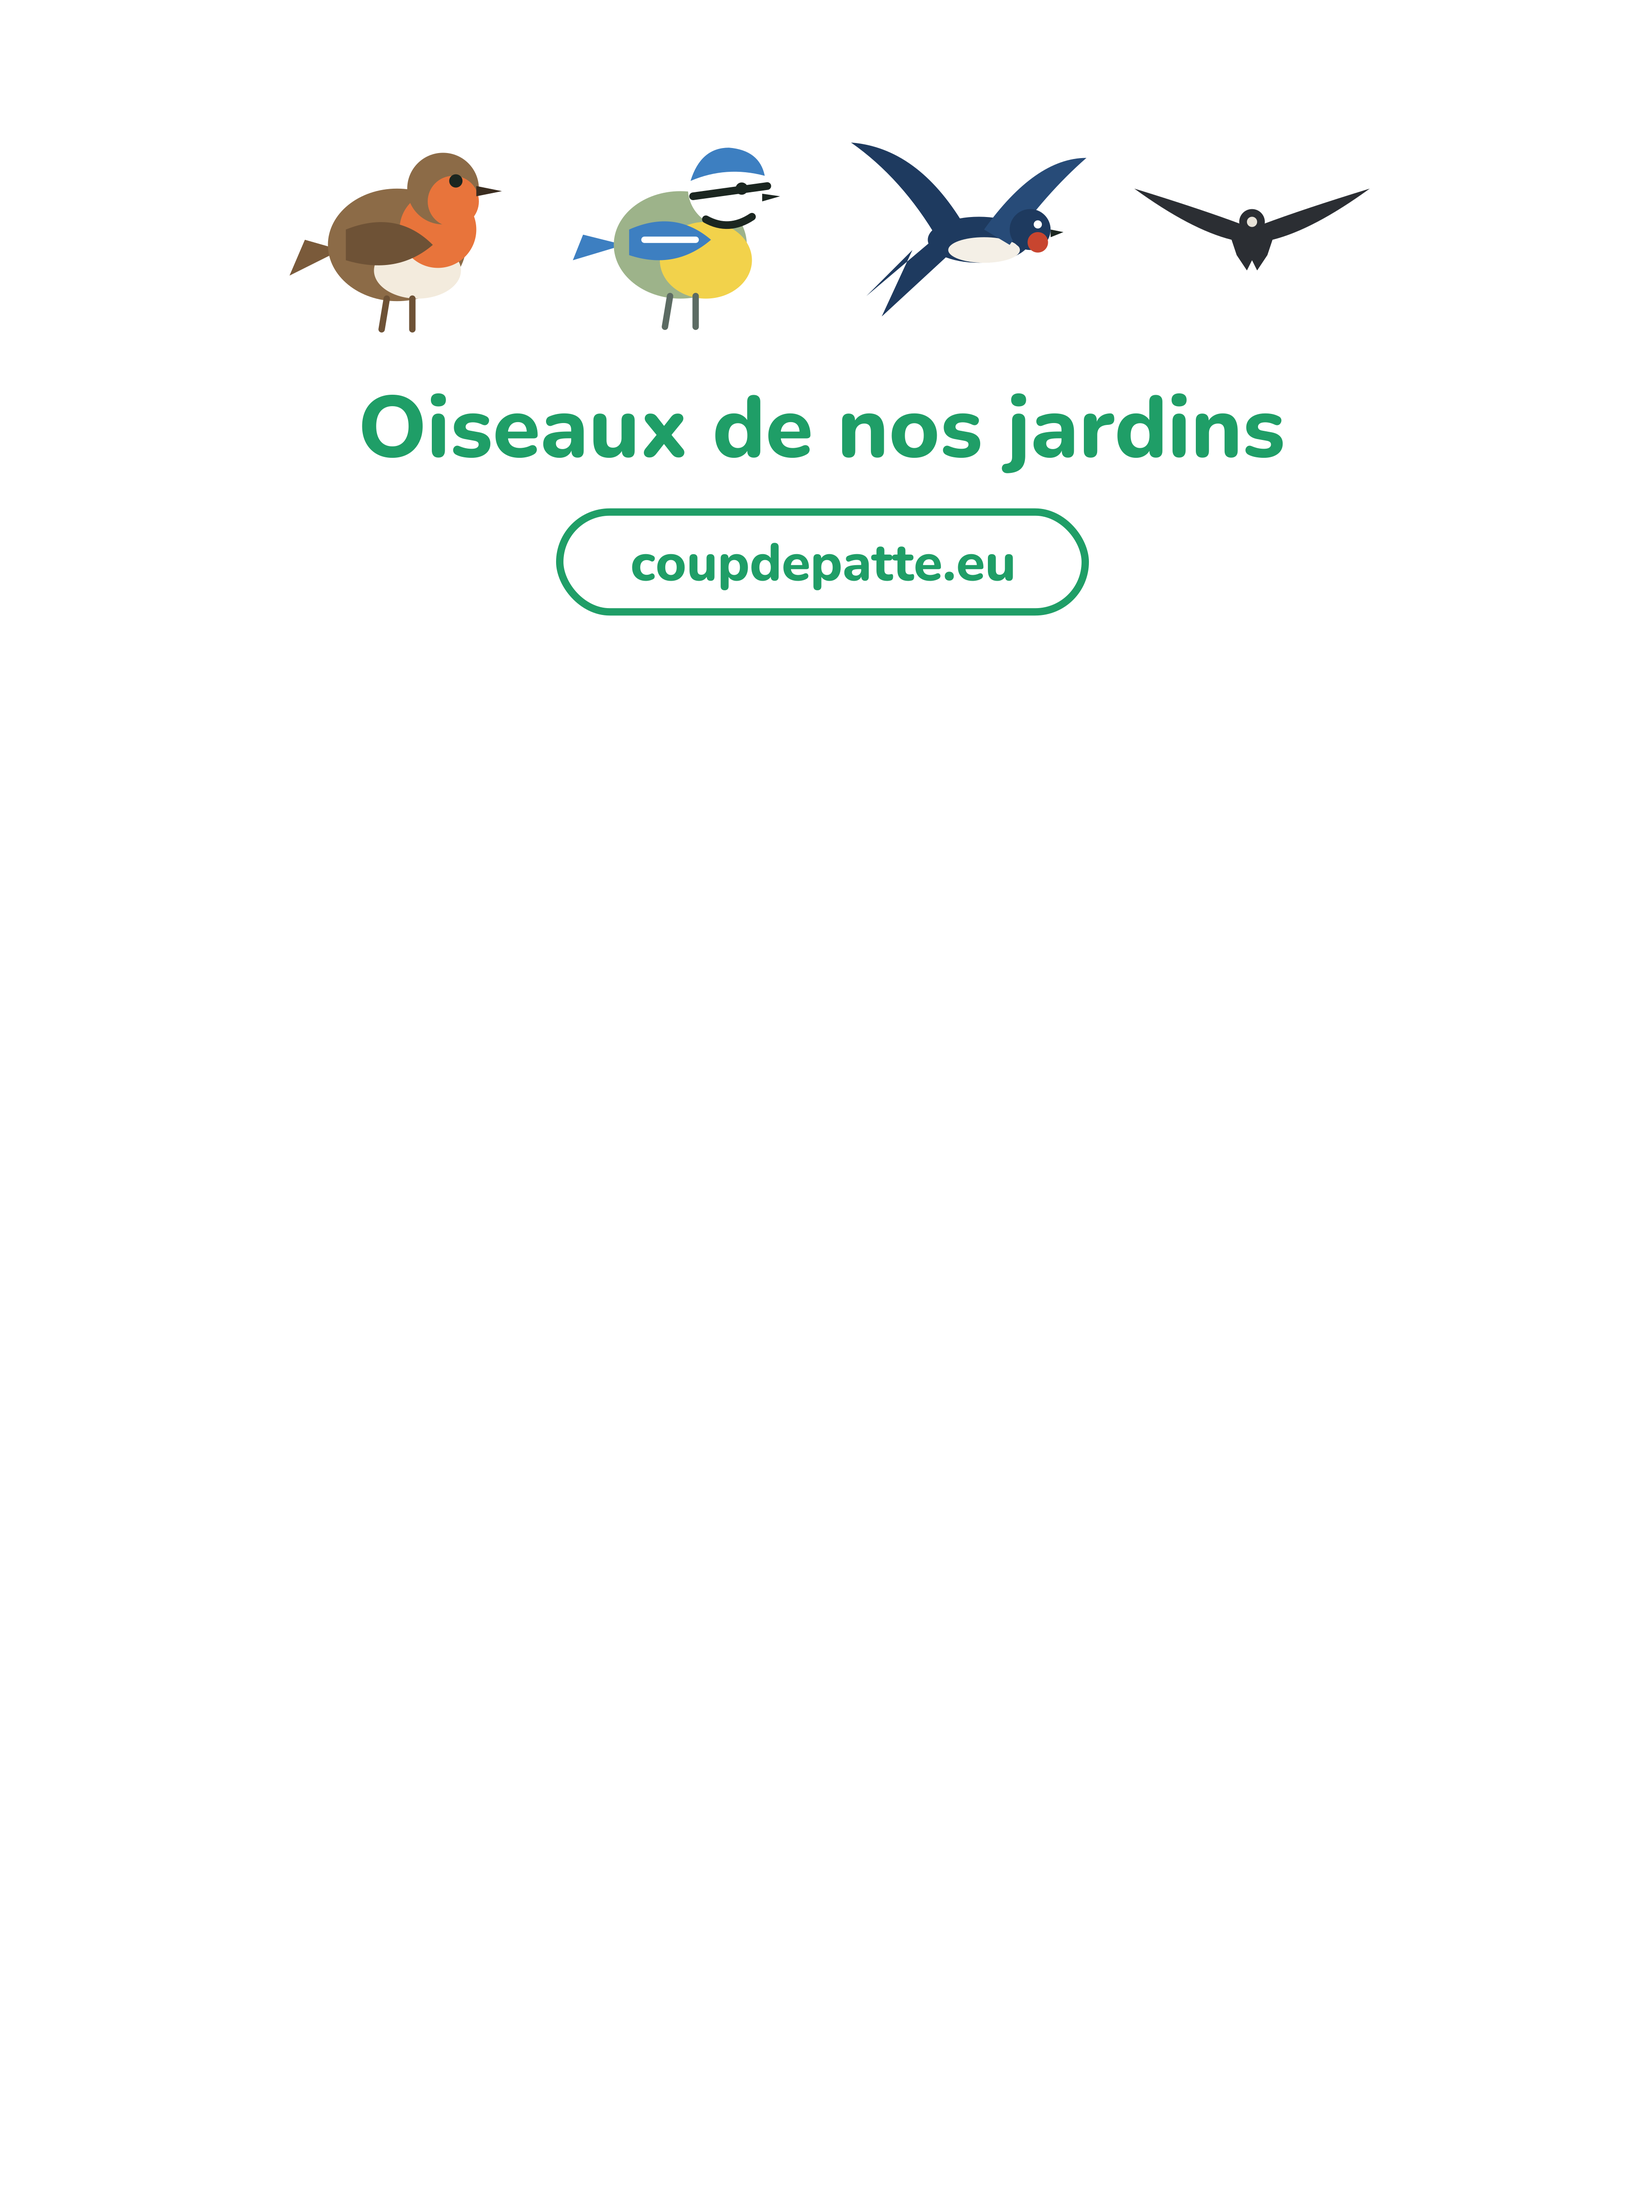
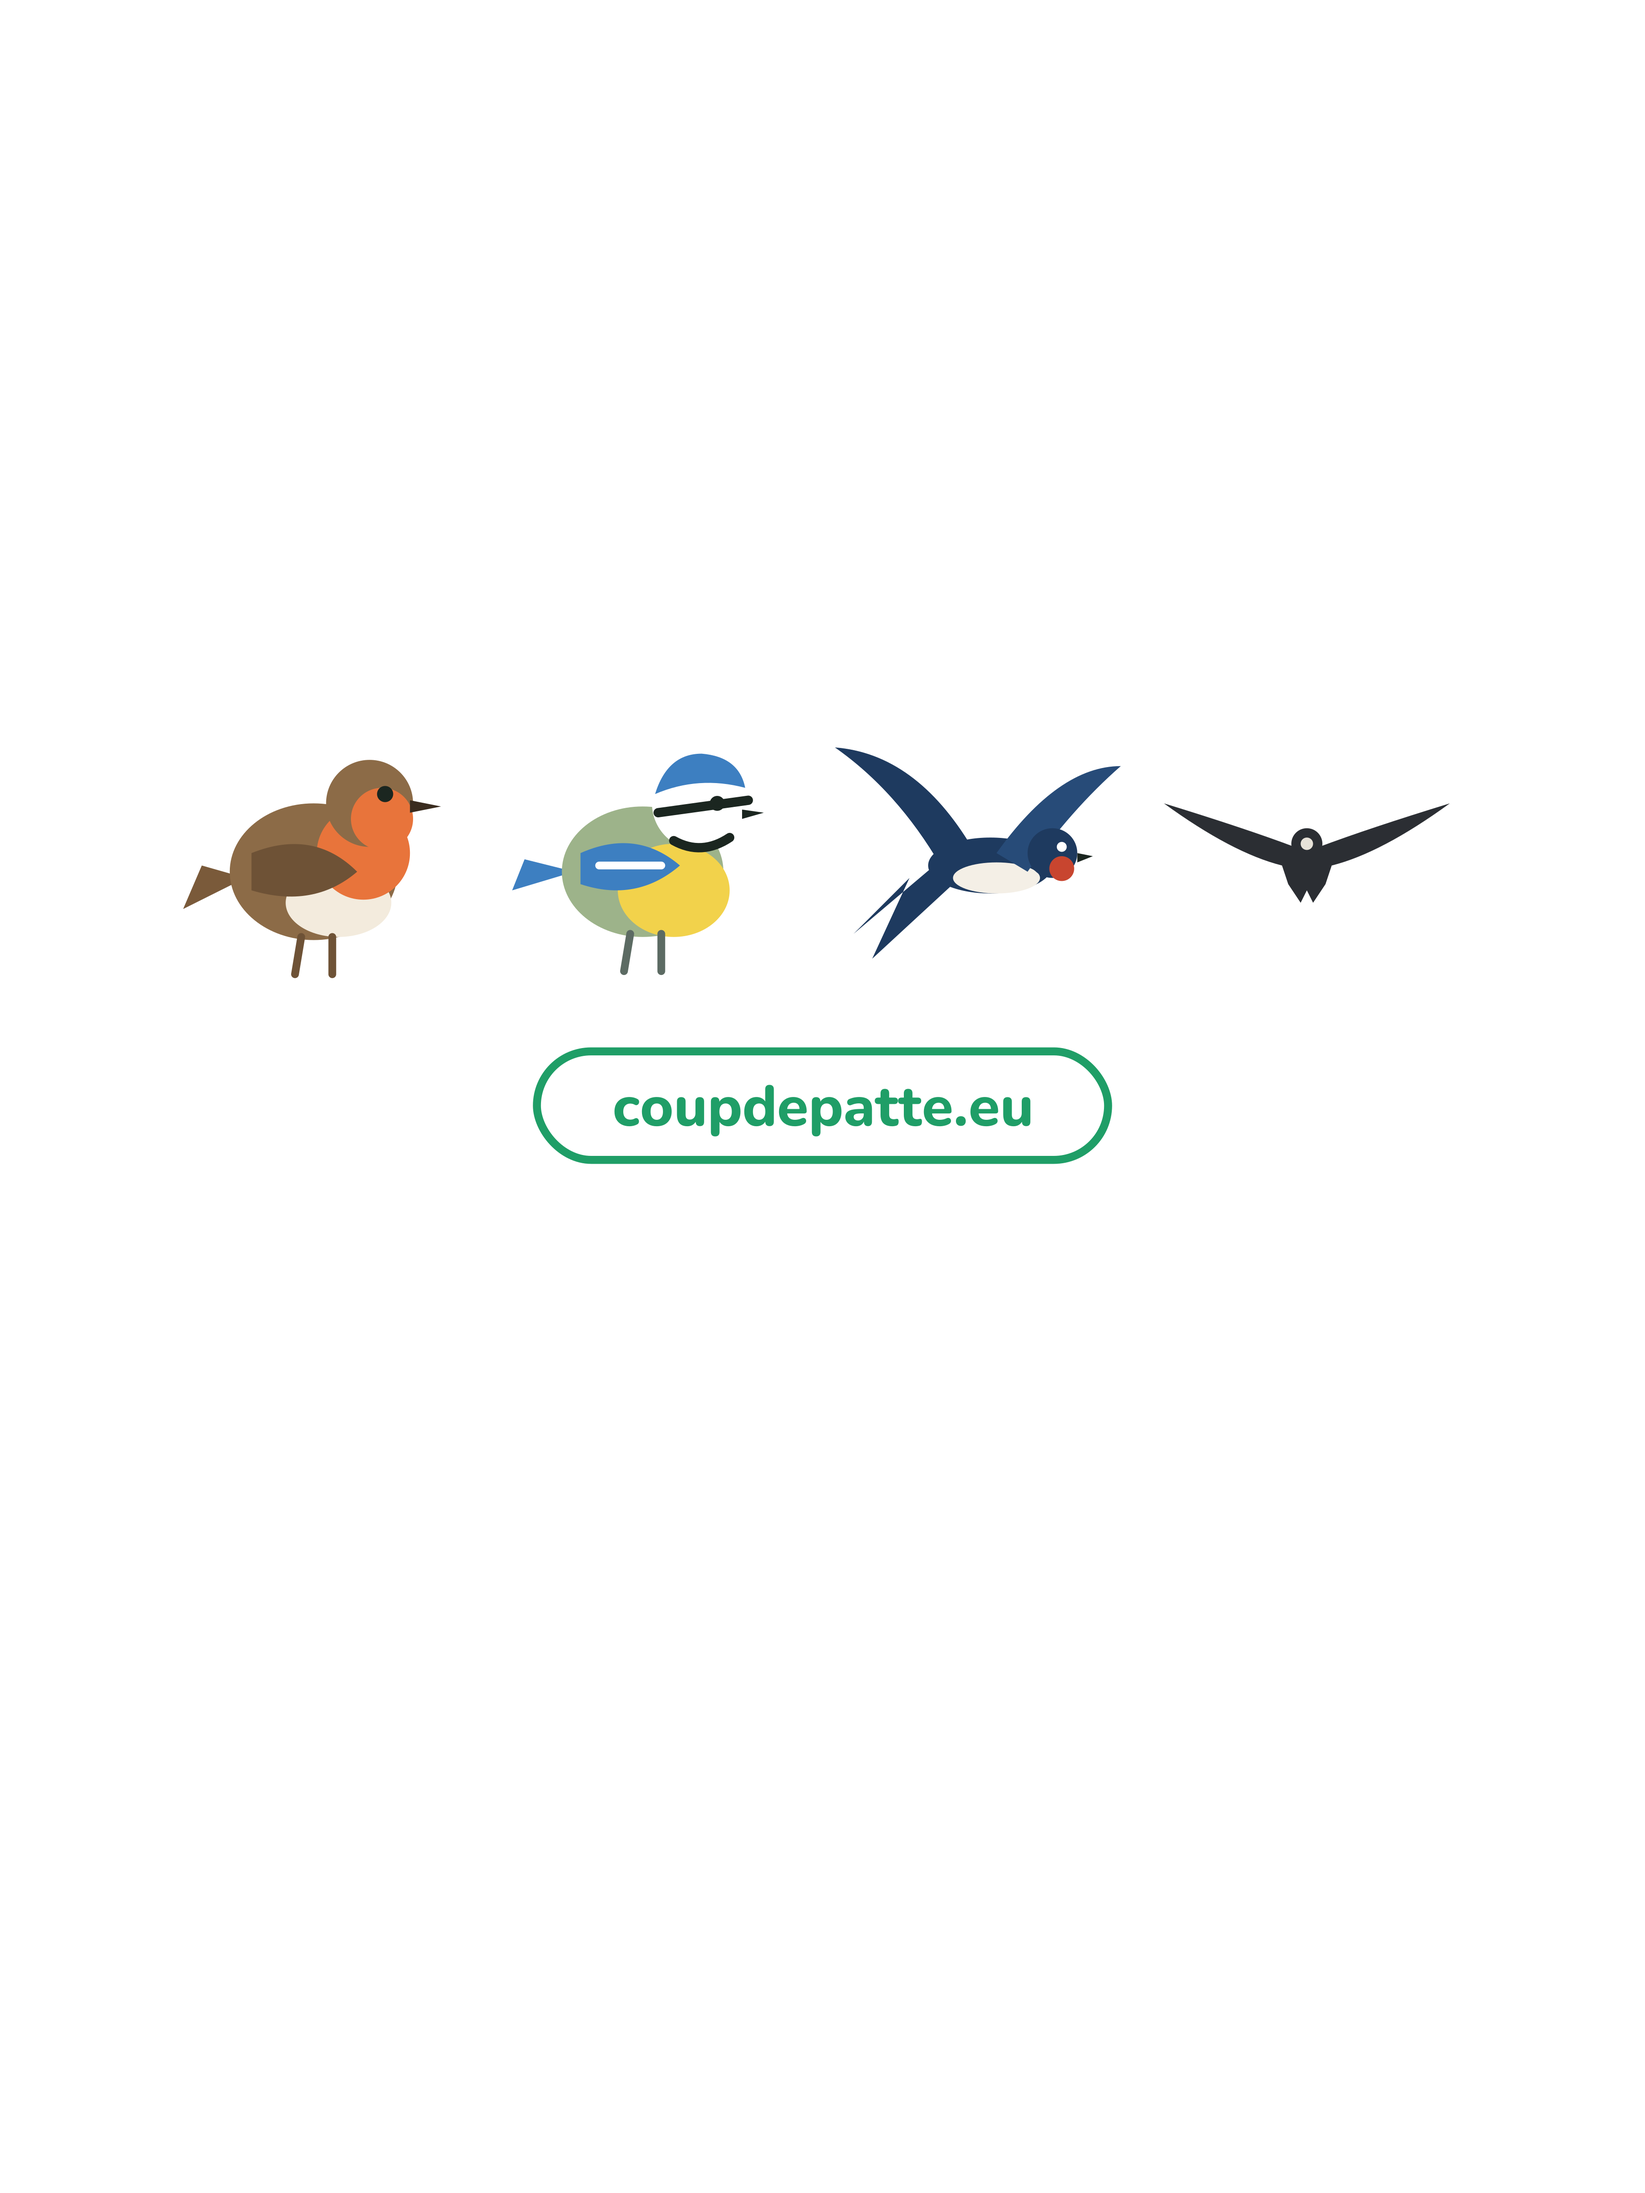
Boutique : sweat avec les quatre oiseaux et la cartouche seule, centrés sur le torse
Claude-Session: https://claude.ai/code/session_01SrhVcf1YKpy74WjD8FZC1m

diff --git a/index.html b/index.html
@@ -1408,7 +1408,7 @@
   var BOUTIQUE_URL = 'https://boutique.coupdepatte.eu/';
   var BOUTIQUE_DEFAUT = [
     {id:'tshirt-plume', nom:'T-shirt La plume', motif:'La plume', description:'La plume blanche, petite et haut sur la poitrine, sur coton vert. Coupe unisexe.', image:'/boutique/apercus/tshirt.jpg', tailles:['S','M','L','XL','XXL'], prix_cts:null, ordre:1},
-    {id:'sweat-oiseaux', nom:'Sweat Oiseaux de nos jardins', motif:'Oiseaux de nos jardins', description:'Rouge-gorge, mésange, hirondelle et martinet sur molleton écru.', image:'/boutique/apercus/sweat.jpg', tailles:['S','M','L','XL','XXL'], prix_cts:null, ordre:2},
+    {id:'sweat-oiseaux', nom:'Sweat Oiseaux de nos jardins', motif:'Oiseaux de nos jardins', description:'Rouge-gorge, mésange, hirondelle et martinet, centrés sur le torse. Molleton écru.', image:'/boutique/apercus/sweat.jpg', tailles:['S','M','L','XL','XXL'], prix_cts:null, ordre:2},
     {id:'tote-ilovebirds', nom:'Tote bag I love birds', motif:'I love birds', description:'Coton naturel, pour les courses, les marchés et les sorties nature.', image:'/boutique/apercus/tote.jpg', tailles:[], prix_cts:null, ordre:3},
     {id:'mug-plume', nom:'Mug La plume', motif:'La plume', description:'Céramique blanche, la plume du logo dans sa pastille verte.', image:'/boutique/apercus/mug.jpg', tailles:[], prix_cts:null, ordre:4},
     {id:'porte-cles', nom:'Porte-clés', motif:'Rouge-gorge ou plume', description:'Acrylique, un petit cadeau qui fait connaître l\'association.', image:'/boutique/apercus/porte-cles.jpg', tailles:[], prix_cts:null, ordre:5},

diff --git a/boutique/index.html b/boutique/index.html
@@ -87,7 +87,7 @@ footer p{margin:4px 0}
   var CLE = 'sb_publishable_OBbJMFqX9UIOkj6FF2T34Q_KTrqUbvL';
   var DEFAUT = [
     {id:'tshirt-plume', nom:'T-shirt La plume', description:'La plume blanche, petite et haut sur la poitrine, sur coton vert. Coupe unisexe.', image:IMG+'tshirt.jpg', tailles:['S','M','L','XL','XXL'], prix_cts:null},
-    {id:'sweat-oiseaux', nom:'Sweat Oiseaux de nos jardins', description:'Rouge-gorge, mésange, hirondelle et martinet sur molleton écru.', image:IMG+'sweat.jpg', tailles:['S','M','L','XL','XXL'], prix_cts:null},
+    {id:'sweat-oiseaux', nom:'Sweat Oiseaux de nos jardins', description:'Rouge-gorge, mésange, hirondelle et martinet, centrés sur le torse. Molleton écru.', image:IMG+'sweat.jpg', tailles:['S','M','L','XL','XXL'], prix_cts:null},
     {id:'tote-ilovebirds', nom:'Tote bag I love birds', description:'Coton naturel, pour les courses, les marchés et les sorties nature.', image:IMG+'tote.jpg', tailles:[], prix_cts:null},
     {id:'mug-plume', nom:'Mug La plume', description:'Céramique blanche, la plume du logo dans sa pastille verte.', image:IMG+'mug.jpg', tailles:[], prix_cts:null},
     {id:'porte-cles', nom:'Porte-clés', description:'Acrylique, un petit cadeau qui fait connaître l\'association.', image:IMG+'porte-cles.jpg', tailles:[], prix_cts:null},

diff --git a/sw.js b/sw.js
@@ -5,7 +5,7 @@
 // Nationale, tuiles OpenStreetMap) part directement au reseau, sans jamais passer par
 // le cache. Sinon les donnees du carnet resteraient figees apres un ajout, une
 // modification ou une suppression.
-const CACHE = 'coup-de-patte-v41';
+const CACHE = 'coup-de-patte-v42';
 const ASSETS = [
   './',
   './index.html',
